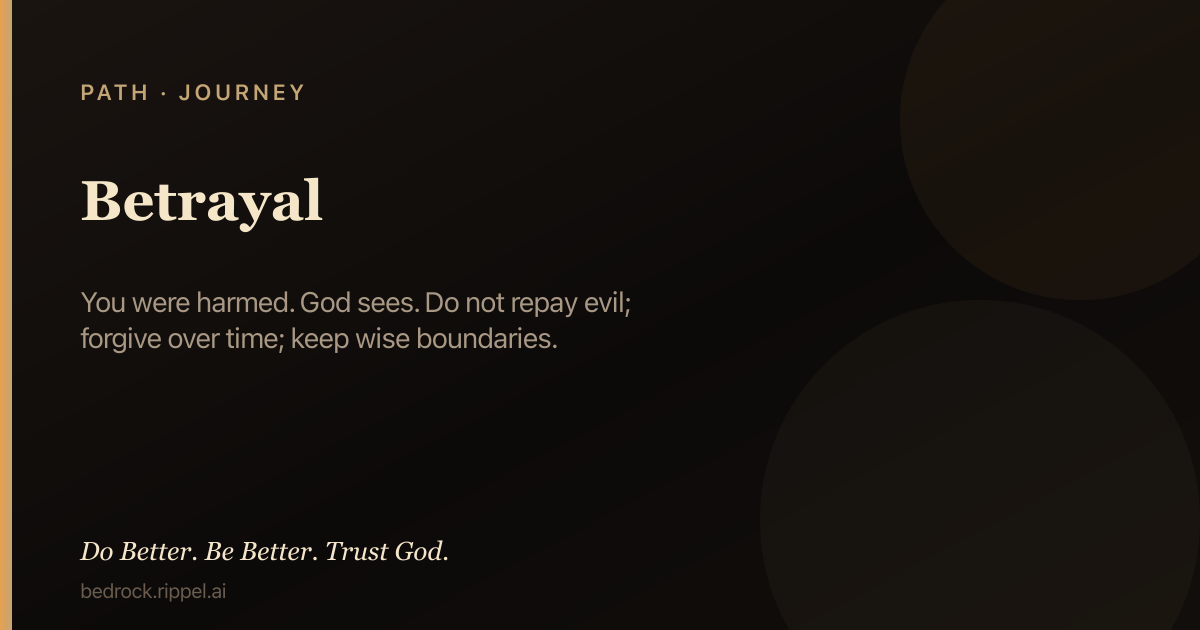
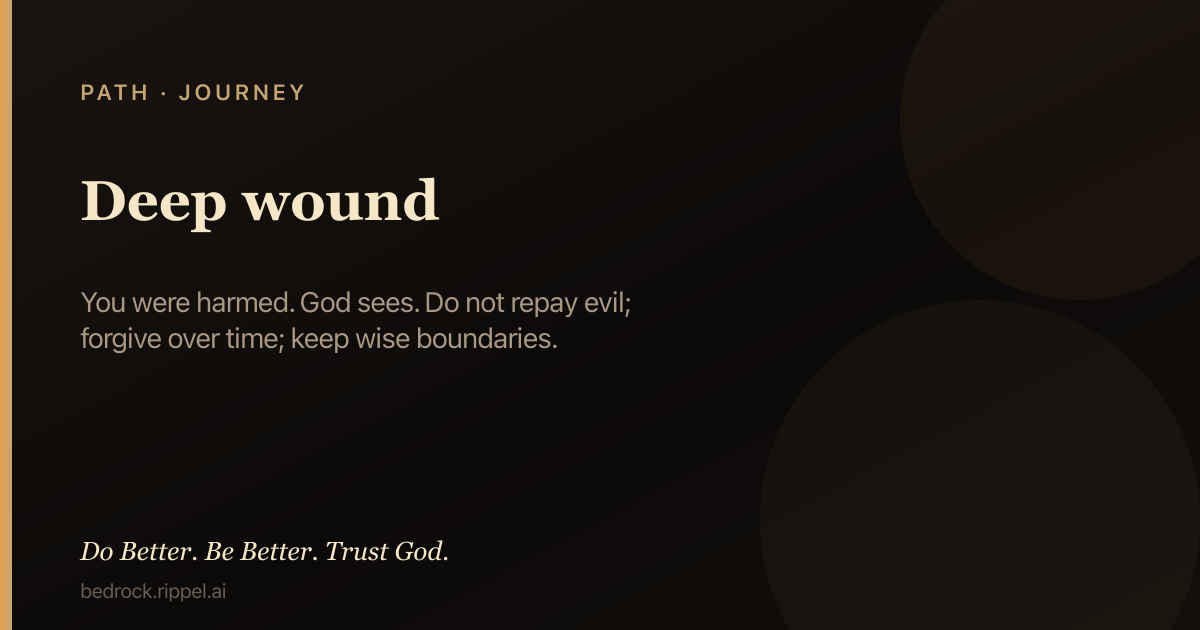
Journey titles from path content; Marriage under fire restored.
Titles are the journey.title field (list, rail, share, OG). Spouse
left path is Marriage under fire; Deep wound and Control match content.

Changed region(s): [[0.0617, 0.2714, 0.37, 0.3921]]

diff --git a/public/j/spouse-left.html b/public/j/spouse-left.html
@@ -3,28 +3,28 @@
 <head>
   <meta charset="utf-8" />
   <meta name="viewport" content="width=device-width, initial-scale=1" />
-  <title>Spouse left — Bedrock Path</title>
-  <meta name="description" content="You were wounded. Their leaving does not cancel whose you are. Critical to healing: your emotional state is your own — not dependent on them. Operational…" />
+  <title>Marriage under fire — Bedrock Path</title>
+  <meta name="description" content="You were wounded. Their leaving does not cancel whose you are. Your emotional state is your own — not dependent on them. Return to your side of the…" />
   <meta name="robots" content="index, follow" />
   <link rel="canonical" href="https://bedrock.rippel.ai/j/spouse-left" />
   <meta property="og:site_name" content="Bedrock" />
   <meta property="og:type" content="article" />
-  <meta property="og:title" content="Spouse left — Bedrock Path" />
-  <meta property="og:description" content="You were wounded. Their leaving does not cancel whose you are. Critical to healing: your emotional state is your own — not dependent on them. Operational…" />
+  <meta property="og:title" content="Marriage under fire — Bedrock Path" />
+  <meta property="og:description" content="You were wounded. Their leaving does not cancel whose you are. Your emotional state is your own — not dependent on them. Return to your side of the…" />
   <meta property="og:url" content="https://bedrock.rippel.ai/j/spouse-left" />
   <meta property="og:image" content="https://bedrock.rippel.ai/og/j/spouse-left.png" />
   <meta property="og:image:secure_url" content="https://bedrock.rippel.ai/og/j/spouse-left.png" />
   <meta property="og:image:type" content="image/png" />
   <meta property="og:image:width" content="1200" />
   <meta property="og:image:height" content="630" />
-  <meta property="og:image:alt" content="Spouse left — Bedrock Path" />
+  <meta property="og:image:alt" content="Marriage under fire — Bedrock Path" />
   <meta name="twitter:card" content="summary_large_image" />
-  <meta name="twitter:title" content="Spouse left — Bedrock Path" />
-  <meta name="twitter:description" content="You were wounded. Their leaving does not cancel whose you are. Critical to healing: your emotional state is your own — not dependent on them. Operational…" />
+  <meta name="twitter:title" content="Marriage under fire — Bedrock Path" />
+  <meta name="twitter:description" content="You were wounded. Their leaving does not cancel whose you are. Your emotional state is your own — not dependent on them. Return to your side of the…" />
   <meta name="twitter:image" content="https://bedrock.rippel.ai/og/j/spouse-left.png" />
-  <meta name="twitter:image:alt" content="Spouse left — Bedrock Path" />
+  <meta name="twitter:image:alt" content="Marriage under fire — Bedrock Path" />
   <script type="application/ld+json">
-  {"@context":"https://schema.org","@type":"Article","headline":"Spouse left","description":"You were wounded. Their leaving does not cancel whose you are. Critical to healing: your emotional state is your own — not dependent on them. Operational standard: Kill the Flesh. Walk in the Spirit. — return to your side of the street; refuse the remote. Adult position. Hold it.","url":"https://bedrock.rippel.ai/j/spouse-left","author":{"@type":"Organization","name":"Bedrock","url":"https://bedrock.rippel.ai"},"publisher":{"@type":"Organization","name":"Bedrock","url":"https://bedrock.rippel.ai"},"image":"https://bedrock.rippel.ai/og/j/spouse-left.png","inLanguage":"en","isPartOf":{"@type":"WebSite","name":"Bedrock","url":"https://bedrock.rippel.ai"},"articleSection":"Path · Journey"}
+  {"@context":"https://schema.org","@type":"Article","headline":"Marriage under fire","description":"You were wounded. Their leaving does not cancel whose you are. Your emotional state is your own — not dependent on them. Return to your side of the street; refuse the remote. Adult position. Hold it. Standard: Kill the Flesh. Walk in the Spirit.","url":"https://bedrock.rippel.ai/j/spouse-left","author":{"@type":"Organization","name":"Bedrock","url":"https://bedrock.rippel.ai"},"publisher":{"@type":"Organization","name":"Bedrock","url":"https://bedrock.rippel.ai"},"image":"https://bedrock.rippel.ai/og/j/spouse-left.png","inLanguage":"en","isPartOf":{"@type":"WebSite","name":"Bedrock","url":"https://bedrock.rippel.ai"},"articleSection":"Path · Journey"}
   </script>
   <script>
 (function(){
@@ -62,8 +62,8 @@
 <body>
   <main class="wrap">
     <p class="kicker">Path · Journey · Bedrock</p>
-    <h1>Spouse left</h1>
-    <p class="summary">You were wounded. Their leaving does not cancel whose you are. Critical to healing: your emotional state is your own — not dependent on them. Operational standard: Kill the Flesh. Walk in the Spirit. — return to your side of the street; refuse the remote. Adult position. Hold it.</p>
+    <h1>Marriage under fire</h1>
+    <p class="summary">You were wounded. Their leaving does not cancel whose you are. Your emotional state is your own — not dependent on them. Return to your side of the street; refuse the remote. Adult position. Hold it. Standard: Kill the Flesh. Walk in the Spirit.</p>
     <nav class="nav" aria-label="Path actions">
       <a class="primary" href="/?j=spouse-left">Open this path</a>
       <a href="/c/wounded">Door station</a>

diff --git a/public/j/control-grip.html b/public/j/control-grip.html
@@ -3,28 +3,28 @@
 <head>
   <meta charset="utf-8" />
   <meta name="viewport" content="width=device-width, initial-scale=1" />
-  <title>Control grip — Bedrock Path</title>
-  <meta name="description" content="Open the hand. Trust is not passivity. Self-control rules you — not them. Critical: emotional state is your own; refuse the remote. Operational standard…" />
+  <title>Control — Bedrock Path</title>
+  <meta name="description" content="Open the hand. Trust is not passivity. Self-control rules you — not them. Your emotional state is your own; refuse the remote. Return to your side of the…" />
   <meta name="robots" content="index, follow" />
   <link rel="canonical" href="https://bedrock.rippel.ai/j/control-grip" />
   <meta property="og:site_name" content="Bedrock" />
   <meta property="og:type" content="article" />
-  <meta property="og:title" content="Control grip — Bedrock Path" />
-  <meta property="og:description" content="Open the hand. Trust is not passivity. Self-control rules you — not them. Critical: emotional state is your own; refuse the remote. Operational standard…" />
+  <meta property="og:title" content="Control — Bedrock Path" />
+  <meta property="og:description" content="Open the hand. Trust is not passivity. Self-control rules you — not them. Your emotional state is your own; refuse the remote. Return to your side of the…" />
   <meta property="og:url" content="https://bedrock.rippel.ai/j/control-grip" />
   <meta property="og:image" content="https://bedrock.rippel.ai/og/j/control-grip.png" />
   <meta property="og:image:secure_url" content="https://bedrock.rippel.ai/og/j/control-grip.png" />
   <meta property="og:image:type" content="image/png" />
   <meta property="og:image:width" content="1200" />
   <meta property="og:image:height" content="630" />
-  <meta property="og:image:alt" content="Control grip — Bedrock Path" />
+  <meta property="og:image:alt" content="Control — Bedrock Path" />
   <meta name="twitter:card" content="summary_large_image" />
-  <meta name="twitter:title" content="Control grip — Bedrock Path" />
-  <meta name="twitter:description" content="Open the hand. Trust is not passivity. Self-control rules you — not them. Critical: emotional state is your own; refuse the remote. Operational standard…" />
+  <meta name="twitter:title" content="Control — Bedrock Path" />
+  <meta name="twitter:description" content="Open the hand. Trust is not passivity. Self-control rules you — not them. Your emotional state is your own; refuse the remote. Return to your side of the…" />
   <meta name="twitter:image" content="https://bedrock.rippel.ai/og/j/control-grip.png" />
-  <meta name="twitter:image:alt" content="Control grip — Bedrock Path" />
+  <meta name="twitter:image:alt" content="Control — Bedrock Path" />
   <script type="application/ld+json">
-  {"@context":"https://schema.org","@type":"Article","headline":"Control grip","description":"Open the hand. Trust is not passivity. Self-control rules you — not them. Critical: emotional state is your own; refuse the remote. Operational standard: Kill the Flesh. Walk in the Spirit. — return to your side of the street.","url":"https://bedrock.rippel.ai/j/control-grip","author":{"@type":"Organization","name":"Bedrock","url":"https://bedrock.rippel.ai"},"publisher":{"@type":"Organization","name":"Bedrock","url":"https://bedrock.rippel.ai"},"image":"https://bedrock.rippel.ai/og/j/control-grip.png","inLanguage":"en","isPartOf":{"@type":"WebSite","name":"Bedrock","url":"https://bedrock.rippel.ai"},"articleSection":"Path · Journey"}
+  {"@context":"https://schema.org","@type":"Article","headline":"Control","description":"Open the hand. Trust is not passivity. Self-control rules you — not them. Your emotional state is your own; refuse the remote. Return to your side of the street. Standard: Kill the Flesh. Walk in the Spirit.","url":"https://bedrock.rippel.ai/j/control-grip","author":{"@type":"Organization","name":"Bedrock","url":"https://bedrock.rippel.ai"},"publisher":{"@type":"Organization","name":"Bedrock","url":"https://bedrock.rippel.ai"},"image":"https://bedrock.rippel.ai/og/j/control-grip.png","inLanguage":"en","isPartOf":{"@type":"WebSite","name":"Bedrock","url":"https://bedrock.rippel.ai"},"articleSection":"Path · Journey"}
   </script>
   <script>
 (function(){
@@ -62,8 +62,8 @@
 <body>
   <main class="wrap">
     <p class="kicker">Path · Journey · Bedrock</p>
-    <h1>Control grip</h1>
-    <p class="summary">Open the hand. Trust is not passivity. Self-control rules you — not them. Critical: emotional state is your own; refuse the remote. Operational standard: Kill the Flesh. Walk in the Spirit. — return to your side of the street.</p>
+    <h1>Control</h1>
+    <p class="summary">Open the hand. Trust is not passivity. Self-control rules you — not them. Your emotional state is your own; refuse the remote. Return to your side of the street. Standard: Kill the Flesh. Walk in the Spirit.</p>
     <nav class="nav" aria-label="Path actions">
       <a class="primary" href="/?j=control-grip">Open this path</a>
       <a href="/c/control">Door station</a>

diff --git a/public/j/deep-wound.html b/public/j/deep-wound.html
@@ -3,13 +3,13 @@
 <head>
   <meta charset="utf-8" />
   <meta name="viewport" content="width=device-width, initial-scale=1" />
-  <title>Betrayal — Bedrock Path</title>
+  <title>Deep wound — Bedrock Path</title>
   <meta name="description" content="You were harmed. God sees. Do not repay evil; forgive over time; keep wise boundaries. Multi-station path in Bedrock. Do Better. Be Better. Trust God." />
   <meta name="robots" content="index, follow" />
   <link rel="canonical" href="https://bedrock.rippel.ai/j/deep-wound" />
   <meta property="og:site_name" content="Bedrock" />
   <meta property="og:type" content="article" />
-  <meta property="og:title" content="Betrayal — Bedrock Path" />
+  <meta property="og:title" content="Deep wound — Bedrock Path" />
   <meta property="og:description" content="You were harmed. God sees. Do not repay evil; forgive over time; keep wise boundaries. Multi-station path in Bedrock. Do Better. Be Better. Trust God." />
   <meta property="og:url" content="https://bedrock.rippel.ai/j/deep-wound" />
   <meta property="og:image" content="https://bedrock.rippel.ai/og/j/deep-wound.png" />
@@ -17,14 +17,14 @@
   <meta property="og:image:type" content="image/png" />
   <meta property="og:image:width" content="1200" />
   <meta property="og:image:height" content="630" />
-  <meta property="og:image:alt" content="Betrayal — Bedrock Path" />
+  <meta property="og:image:alt" content="Deep wound — Bedrock Path" />
   <meta name="twitter:card" content="summary_large_image" />
-  <meta name="twitter:title" content="Betrayal — Bedrock Path" />
+  <meta name="twitter:title" content="Deep wound — Bedrock Path" />
   <meta name="twitter:description" content="You were harmed. God sees. Do not repay evil; forgive over time; keep wise boundaries. Multi-station path in Bedrock. Do Better. Be Better. Trust God." />
   <meta name="twitter:image" content="https://bedrock.rippel.ai/og/j/deep-wound.png" />
-  <meta name="twitter:image:alt" content="Betrayal — Bedrock Path" />
+  <meta name="twitter:image:alt" content="Deep wound — Bedrock Path" />
   <script type="application/ld+json">
-  {"@context":"https://schema.org","@type":"Article","headline":"Betrayal","description":"You were harmed. God sees. Do not repay evil; forgive over time; keep wise boundaries.","url":"https://bedrock.rippel.ai/j/deep-wound","author":{"@type":"Organization","name":"Bedrock","url":"https://bedrock.rippel.ai"},"publisher":{"@type":"Organization","name":"Bedrock","url":"https://bedrock.rippel.ai"},"image":"https://bedrock.rippel.ai/og/j/deep-wound.png","inLanguage":"en","isPartOf":{"@type":"WebSite","name":"Bedrock","url":"https://bedrock.rippel.ai"},"articleSection":"Path · Journey"}
+  {"@context":"https://schema.org","@type":"Article","headline":"Deep wound","description":"You were harmed. God sees. Do not repay evil; forgive over time; keep wise boundaries.","url":"https://bedrock.rippel.ai/j/deep-wound","author":{"@type":"Organization","name":"Bedrock","url":"https://bedrock.rippel.ai"},"publisher":{"@type":"Organization","name":"Bedrock","url":"https://bedrock.rippel.ai"},"image":"https://bedrock.rippel.ai/og/j/deep-wound.png","inLanguage":"en","isPartOf":{"@type":"WebSite","name":"Bedrock","url":"https://bedrock.rippel.ai"},"articleSection":"Path · Journey"}
   </script>
   <script>
 (function(){
@@ -62,7 +62,7 @@
 <body>
   <main class="wrap">
     <p class="kicker">Path · Journey · Bedrock</p>
-    <h1>Betrayal</h1>
+    <h1>Deep wound</h1>
     <p class="summary">You were harmed. God sees. Do not repay evil; forgive over time; keep wise boundaries.</p>
     <nav class="nav" aria-label="Path actions">
       <a class="primary" href="/?j=deep-wound">Open this path</a>

diff --git a/public/j/README.md b/public/j/README.md
@@ -3,12 +3,12 @@
 Canonical multi-station paths for crawlers and social share.
 
 - [Death of a loved one](https://bedrock.rippel.ai/j/death-of-loved-one) — Mourning is not unbelief. Hope does not erase tears; it frames them. Empty hands; remain today.
-- [Spouse left](https://bedrock.rippel.ai/j/spouse-left) — You were wounded. Their leaving does not cancel whose you are. Critical to healing: your emotional state is your own — not dependent on them. Operational standard: Kill the Flesh. Walk in the Spirit. — return to your side of the street; refuse the remote. Adult position. Hold it.
-- [Betrayal](https://bedrock.rippel.ai/j/deep-wound) — You were harmed. God sees. Do not repay evil; forgive over time; keep wise boundaries.
+- [Marriage under fire](https://bedrock.rippel.ai/j/spouse-left) — You were wounded. Their leaving does not cancel whose you are. Your emotional state is your own — not dependent on them. Return to your side of the street; refuse the remote. Adult position. Hold it. Standard: Kill the Flesh. Walk in the Spirit.
+- [Deep wound](https://bedrock.rippel.ai/j/deep-wound) — You were harmed. God sees. Do not repay evil; forgive over time; keep wise boundaries.
 - [Abandonment fear](https://bedrock.rippel.ai/j/abandonment-fear) — Perfect love casts out fear. You cry Abba — not slave to terror. Trust when the face is gone.
 - [Addiction](https://bedrock.rippel.ai/j/addiction) — If it masters you, it is not free. Name the master; walk by the Spirit one hour; get real help.
 - [Obsession](https://bedrock.rippel.ai/j/obsession) — The stuck replaying mind is not the Holy Spirit. Capture → replace → next obedient step.
-- [Control grip](https://bedrock.rippel.ai/j/control-grip) — Open the hand. Trust is not passivity. Self-control rules you — not them. Critical: emotional state is your own; refuse the remote. Operational standard: Kill the Flesh. Walk in the Spirit. — return to your side of the street.
+- [Control](https://bedrock.rippel.ai/j/control-grip) — Open the hand. Trust is not passivity. Self-control rules you — not them. Your emotional state is your own; refuse the remote. Return to your side of the street. Standard: Kill the Flesh. Walk in the Spirit.
 - [Jealousy](https://bedrock.rippel.ai/j/jealousy) — Jealousy is not love. Capture the rivalry; choose selfless love; trust God with what is not yours to grip.
 - [I fell](https://bedrock.rippel.ai/j/i-fell) — Name the fall. Confess. Grace is enough. Rise. The righteous man falls and gets up again. Hub path after any journey’s failure.
 - [Sexual sin](https://bedrock.rippel.ai/j/sexual-sin) — Confess, forsake, be cleansed. Do not call darkness a new identity. Deny yourself; walk by the Spirit.

diff --git a/public/og/README.md b/public/og/README.md
@@ -6,4 +6,4 @@ Generated on content build for social share (X, Facebook, LinkedIn, etc.).
 - Paths (journeys): `/og/j/{id}.png`
 - Keys: `/og/k/{id}.png`
 
-Cards: 106 · ~5704 KB total
+Cards: 106 · ~5706 KB total
